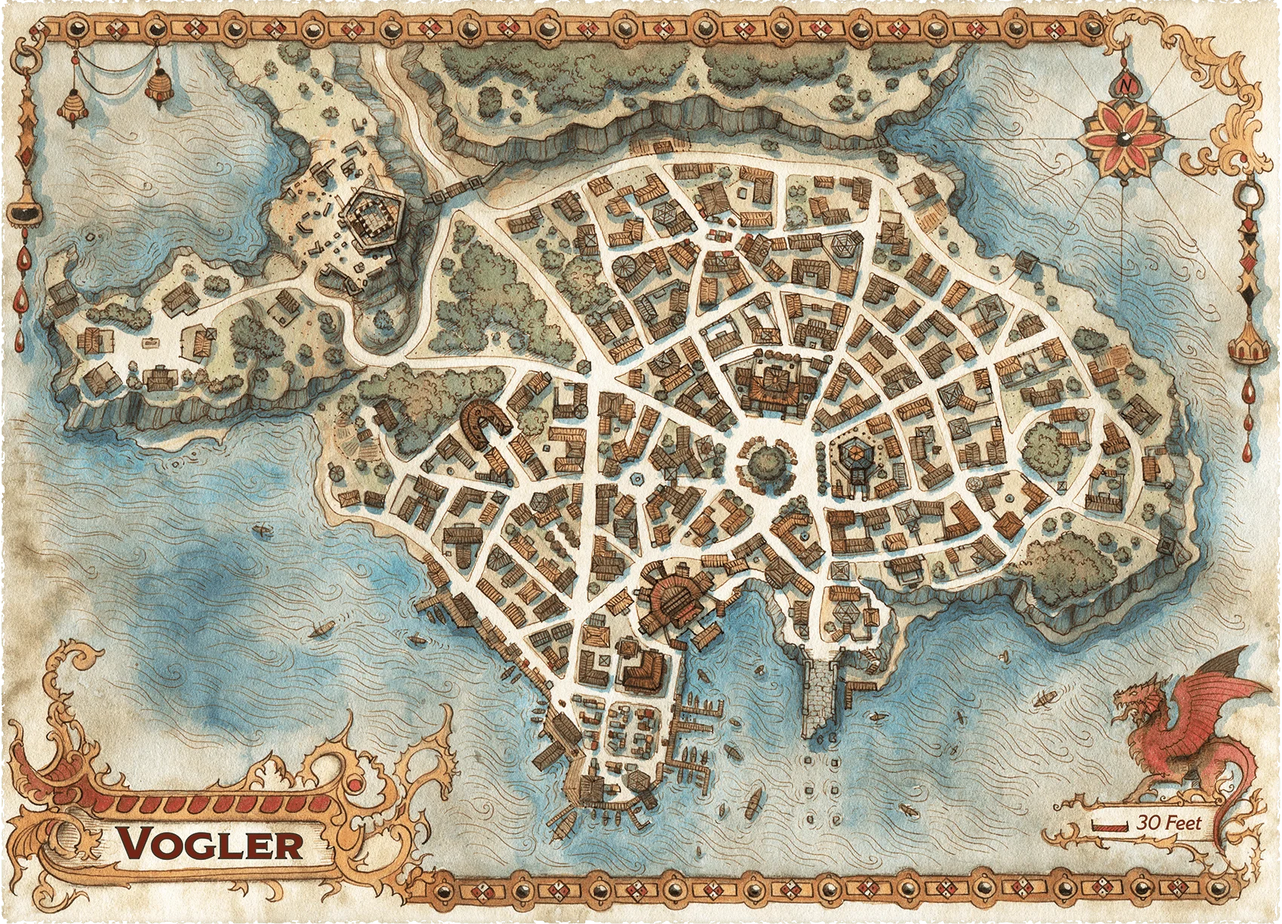
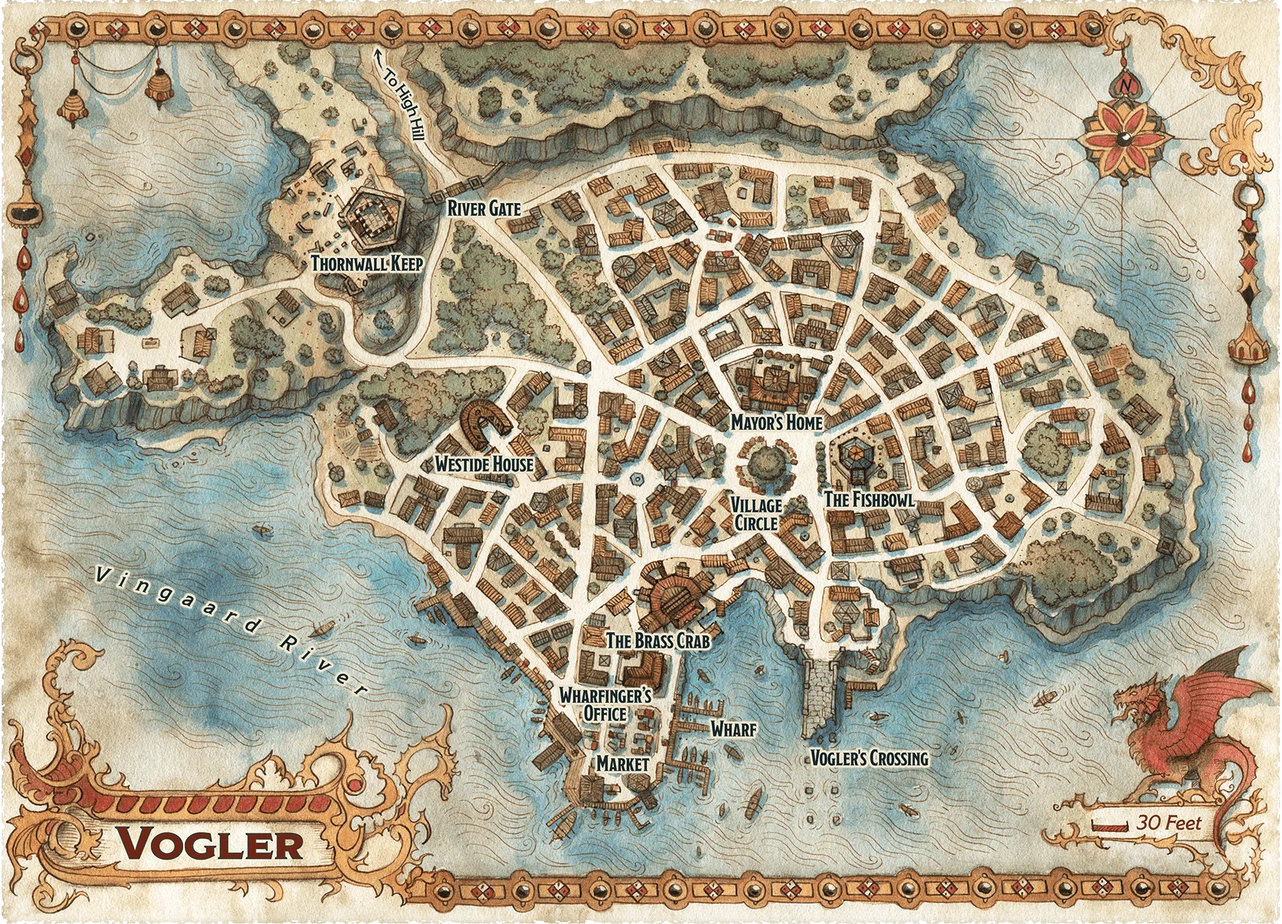
Update menu order and Vogler map, add "Journey So Far" section

diff --git a/content/journey/vogler.md b/content/journey/vogler.md
@@ -1,0 +1,78 @@
+---
+title: Vogler
+weight: 1
+---
+
+# Vogler
+
+The fishing village of Vogler clings to a spit of land reaching into the Vingaard River. Wooded cliffs overlook the community, and the only path from the north descends past the ivy-covered remnants of a crumbling stone keep. The village's modest wooden buildings cluster around a quaint central circle and along the riverbank.
+
+Jutting into the river—out of place and seemingly out of time—stands an incomplete stone bridge of incredible artisanship. The structure clearly dates to before the Cataclysm, eclipsing its modern peers in size and sturdiness. The bridge crosses less than half the river's width before giving way to a series of ropes and tethered rafts serving as ferries.
+
+On the river itself, dozens of small boats drift along the slow, murky waters as the fishers of Vogler ply their trade.
+
+The Solamnic village of Vogler rests at the foot of a partially built bridge on the Vingaard River. Fishers, lumberers, hunters, and farmers live here peacefully, only occasionally interrupted by bandits or predators from the Northern Wastes. In addition to a volunteer militia maintained by Mayor **Raven Uth Vogler** (human), the village is ostensibly under the protection of Hinterlund's capital, Maelgoth. This protection takes the form of a retired Knight of Solamnia, **Becklin Uth Viharin** (human), who's stationed at the crumbling Thornwall Keep—now more a historic landmark than a true fortification.
+
+## The Kingfisher Festival
+
+Your visit to Vogler overlaps with the kickoff of the Kingfisher Festival, an annual celebration commemorating Solamnia's victory over the forces of Istar during a clash near the town centuries ago. The festival takes its name from the kingfisher, a symbol of the Knights of Solamnia and a bird the fishers of Vogler consider lucky. Festivities culminate with the locals' reenactment of the Battle of High Hill, a clash between Istarian and Solamnic soldiers.
+
+## Locations in Vogler
+
+While in Vogler, you might visit any of the locations in this section. These sites are marked on the [map](/maps/#vogler).
+
+### The Brass Crab
+
+The Brass Crab is a modest single-story inn on the village wharf, and its exterior vaguely resembles its namesake. Its proprietor, an Ergothian woman named Yalme (human), has an odd love of bad storytellers and inept musicians. One wall of the circular common room features a faded mural of two enormous crabs locked in combat, inlaid with brass details. The mural's origins are lost to time, but if asked, Yalme says she named the crabs Fancy and Gorgeous George. Four short halls branch off the common room, each lined with rooms for rent.
+
+### The Fishbowl
+
+After a long day on the river, many of Vogler's fishers gather at the Fishbowl to tell tales, quench their thirst, and indulge in baked fish pies. The cramped but well-kept tavern is known for its savory baked goods more than its weak ale. The Fishbowl's proprietor is the elderly Elthar (human), whom most locals call Uncle.
+
+### High Hill
+
+High Hill stands a mile north of Vogler. Centuries ago, Solamnic and Istarian forces clashed here, and legends claim the spirits of fallen knights haunt the hill and watch over the town. Each year, the Kingfisher Festival's reenactment of the battle serves as a reminder of the village's history and nominally honors any spirits lingering at the battlefield.
+
+### Market
+
+Across from Vogler's busy wharf spreads the village market. Amid this collection of stalls, vendors sell fresh river fish, fishing supplies, crafts, the bounty of local farms, and all manner of mundane equipment. One notable stall is that of Froswin (kender), who sells intricate fish-bone puppets she designs in the shapes of animals and sea serpents.
+
+### Mayor's Home
+
+Vogler's down-to-earth mayor, **Raven Uth Vogler** (human), lives in a two-story house on the village circle. Raven is a practical, empathetic leader in her thirties who grew up on the river. She keeps a pair of guest rooms—lavishly decorated with mounted fish—where she frequently hosts villagers going through tough times.
+
+### Mercenary Camp
+
+Along the road north of Vogler, a mile past High Hill, lies a mercenary camp. Known as the Ironclad Regiment, the soldiers here are under the command of Captain Ridomir "Cudgel" Ironsmile (hill dwarf). Cudgel is a friend of the deceased Ispin Greenshield and many others in town, and she brought her company to Vogler a week ago to attend Ispin's funeral. She volunteered her band to take part in the annual reenactment of the Battle of High Hill—her attempt to lift the village's spirits after their loss.
+
+During the day, Cudgel remains in the camp with her lieutenants—the half-ogre Gragonis and the human **Jeyev Veldrews**—along with several dozen mercenaries. The soldiers spend most of the day participating in drills. At night, they keep to themselves, lounging and playing dice. They're under strict orders from Cudgel not to interfere with the locals.
+
+### River Gate
+
+Those who enter Vogler from the north pass through the unguarded River Gate, a 15-foot-tall wooden archway carved with two leaping fish on its frame. Over the years, locals have etched the coin-sized scales of these fish with prayers for bountiful fishing. Two large wooden doors stand within the arch, but they haven't been closed for years and are embedded in the surrounding dirt.
+
+### Thornwall Keep
+
+The ruins of an ancient Solamnic keep perch on a rocky rise at the western edge of town. Thornwall Keep's steward, the knight **Becklin Uth Viharin**, maintains the keep. Partially ruined walls surround the keep's three-story tower. The tower's ground level holds a small library and a collection of local relics: over forty pieces of rusty tools and armor. The second floor holds the quarters of Becklin's squire, **Darrett Highwater** (human). Becklin's austere room lies on the uppermost story; from there, a ladder leads to the keep's crenelated roof.
+
+Vogler's resident tinker gnome, Than, built an elaborate catapult-like contraption on the roof of the keep. A friend of Becklin and Darrett, Than occasionally drops by to fine-tune this device, called a gnomeflinger. Though it looks like a weapon of war, the contraption is a mode of rapid transportation originally devised by the tinker gnomes of Mount Nevermind. Becklin tolerates the gnomeflinger—and the noise of Than's occasional early-morning tinkering—because she sees the catapult-shaped device as a deterrent against attack.
+
+### Village Circle
+
+The homes and shops in Vogler cluster around a grassy patch shaded by an ancient tree. This green is encircled by a dirt road that branches off into streets leading north out of the village and south to the ferry across the Vingaard, and others radiating out into the town. The village circle serves as a public space, meeting spot, and festival ground. An iron bell hangs atop a tall pole near the mayor's house. In times of need, anyone who vigorously rings the bell summons the mayor and volunteer militia members who arrive in about 5 minutes. The local militia is largely composed of retired farmers and fishers who exhibit more zeal than skill in the village's defense, but they all take the bell's sounding very seriously.
+
+### Vogler's Crossing
+
+South of Vogler, an incomplete stone bridge begins to stretch across the Vingaard River. Half-constructed before the Cataclysm using techniques lost in the ages since, the bridge looks like a glorified pier—a remnant of once-promised glory. A simple ferry system of ropes and winches follows the bridge's supports and connects with posts on the opposite shore. Simple rafts and skiffs allow travelers and even small wagons to cross the river. The process is safe but slow, taking approximately 10 minutes for a raft to cross the broad river. Travelers can make use of the crossing themselves or hire a ferrier to aid them for 1 sp.
+
+### Westide House
+
+The horseshoe-shaped structure known as Westide House is only slightly larger than the other homes in Vogler, but its owner speaks of it as if it were an opulent country manor. This is the home of Lord **Bakaris Uth Estide** (human) and his son, **Bakaris the Younger**. Lord Bakaris is a Solamnic noble who is living in exile after raiders burned his family home in Estwilde.
+
+### Wharf
+
+Local fishers crowd these docks each dawn and dusk, rowing out with empty nets and returning with the day's catch. At the end of the southernmost pier, a centuries-old wooden post bears an eroded carving of a bird with a fish in its mouth. Many locals rub it for luck before seeking the morning catch.
+
+### Wharfinger's Office
+
+Wharfinger Umpton Lanth (human) wakes up earlier than any other fisher in Vogler to inspect boats docked at the wharf and impose fines on those in poor repair. Fishers and traders seeking to use the wharf must register with Umpton at his stuffy two-story office across from the market. The office is usually staffed by Umpton's son Nesau (human), who—to his father's consternation—is quick to forgive fines and forgo docking fees when his father isn't present, making him quite popular in the village.

diff --git a/content/journey/_index.md b/content/journey/_index.md
@@ -1,0 +1,8 @@
+---
+title: Our Journey So Far
+weight: 2
+---
+
+# Our Journey So Far
+
+The party has joined together and found your way to [Vogler](/journey/vogler), where you've explored some of what the city has to offer in the hours before Ispin's funeral.

diff --git a/content/maps.md b/content/maps.md
@@ -14,5 +14,6 @@ weight: 2
 
 ## City
 
-![Vogler](/images/maps/vogler.webp)
-<figcaption>Vogler</figcaption>
+### Vogler
+
+[![Vogler](/images/maps/vogler.webp)](/images/maps/vogler.webp)

diff --git a/content/character-creation/_index.md b/content/character-creation/_index.md
@@ -1,6 +1,7 @@
 ---
 title: Character Creation
-weight: 3
+weight: 4
+bookCollapseSection: true
 ---
 
 # Character Creation

diff --git a/content/history-of-krynn.md b/content/history-of-krynn.md
@@ -1,6 +1,6 @@
 ---
 title: A Brief History of Krynn
-weight: 2
+weight: 3
 ---
 
 # A Brief History of Krynn

diff --git a/content/life-on-ansalon/_index.md b/content/life-on-ansalon/_index.md
@@ -1,6 +1,7 @@
 ---
 title: Life on Ansalon
 weight: 3
+bookCollapseSection: true
 ---
 
 # Life on Ansalon

diff --git a/content/homebrew/_index.md b/content/homebrew/_index.md
@@ -1,5 +1,7 @@
 ---
 title: Homebrew
+weight: 3
+bookCollapseSection: true
 ---
 
 # Homebrew
